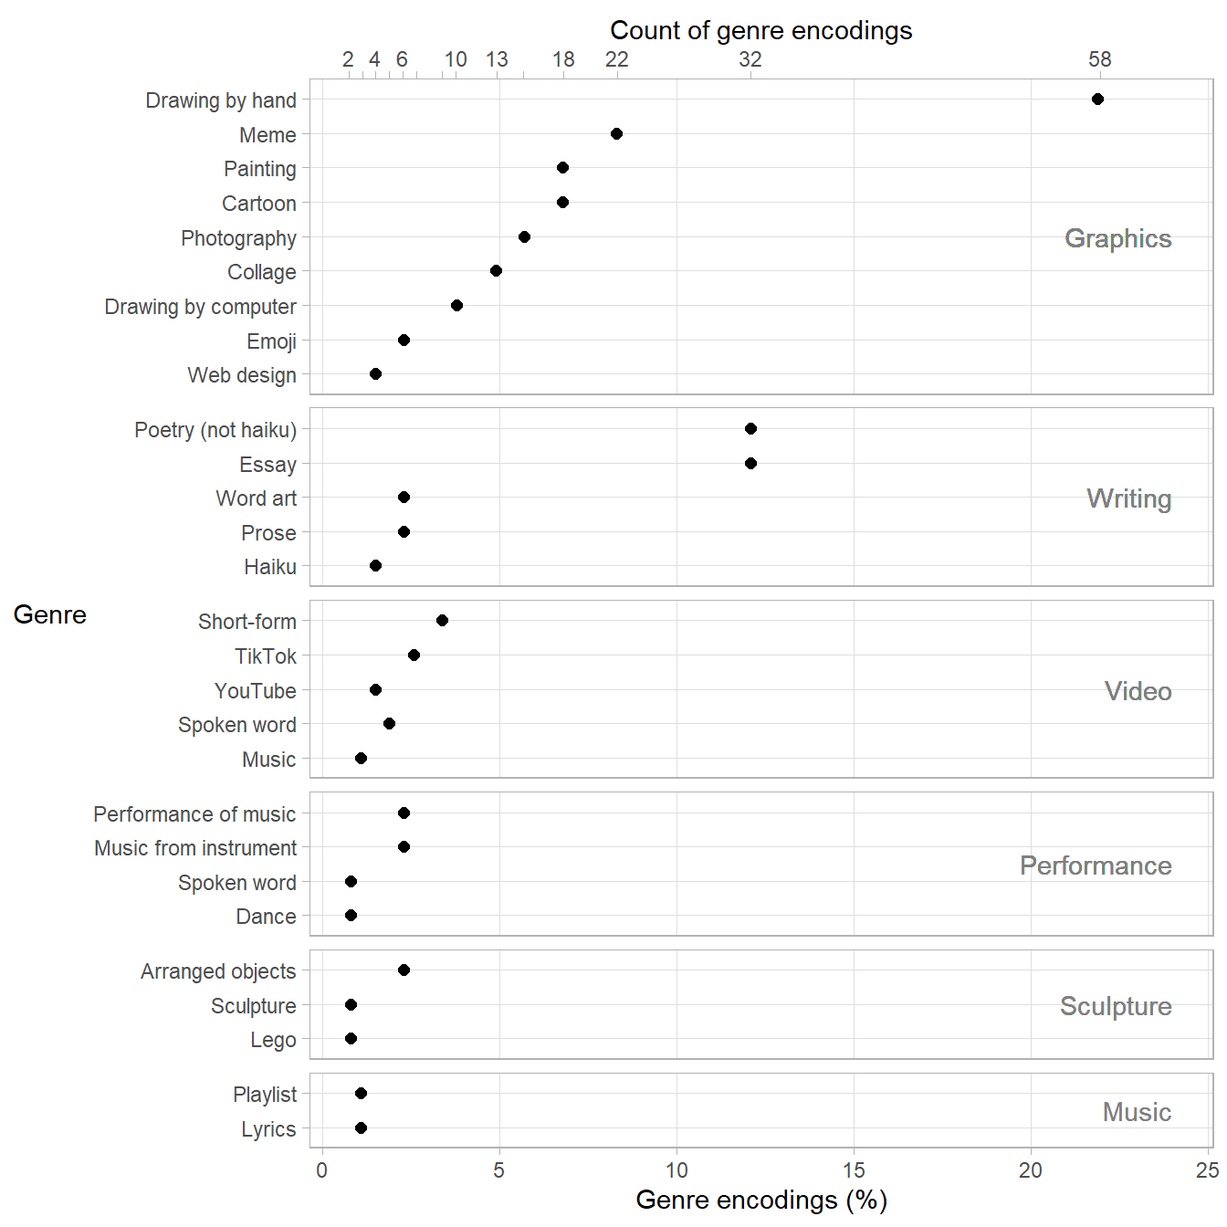
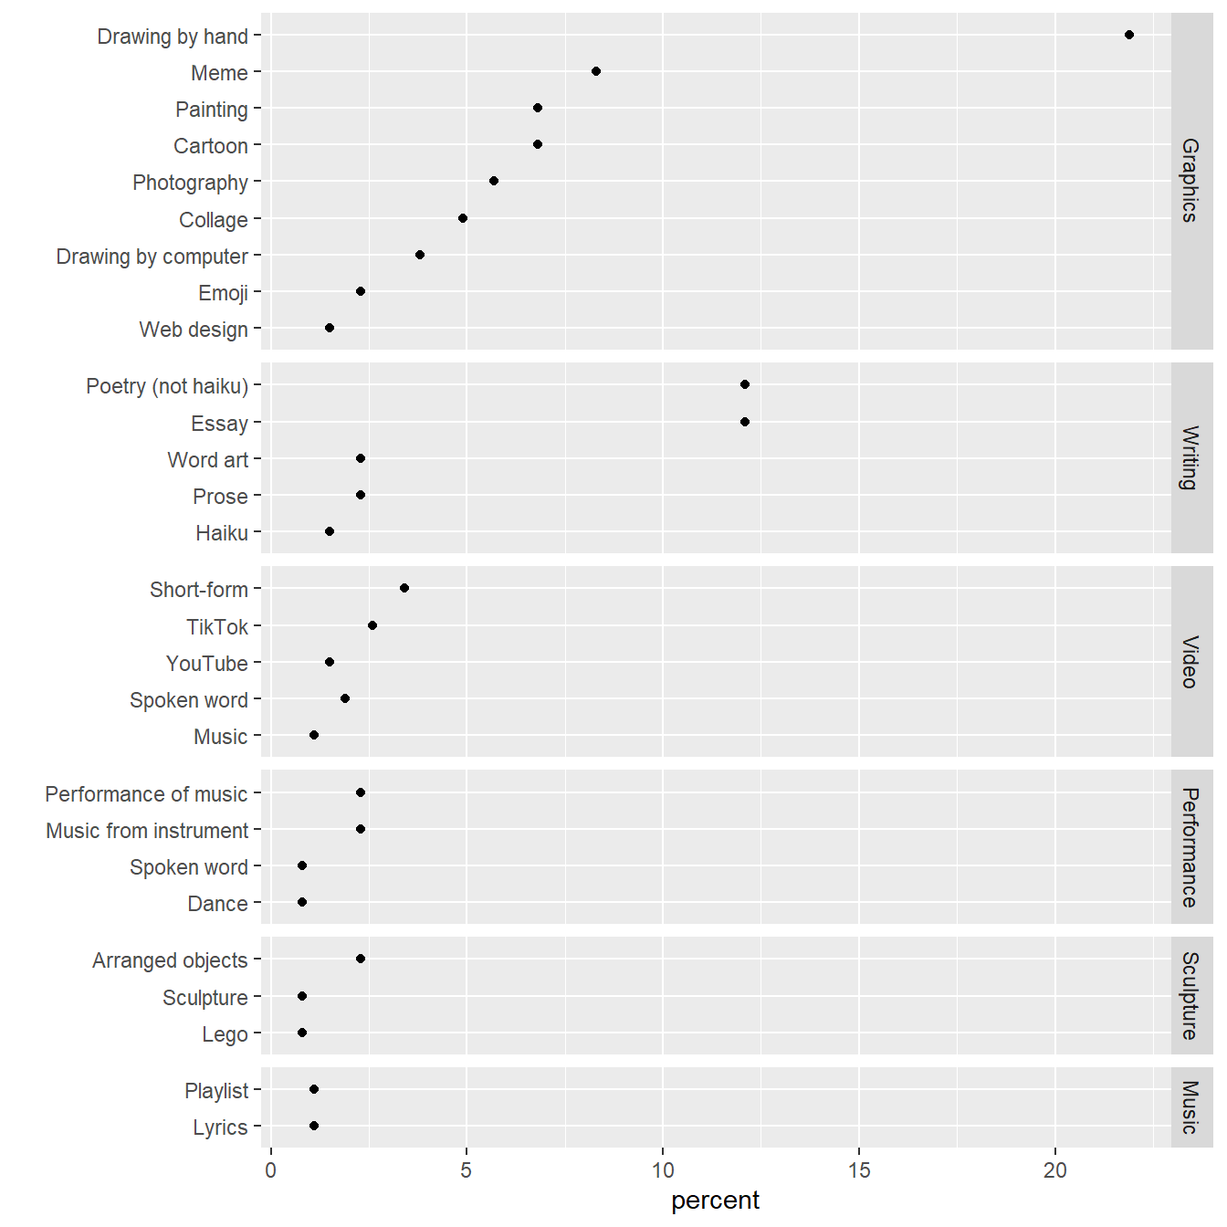
fig.asp

diff --git a/docs/posts/2022-02-19-facets-not-small-multiples/index.html b/docs/posts/2022-02-19-facets-not-small-multiples/index.html
@@ -18,6 +18,69 @@ span.underline{text-decoration: underline;}
 div.column{display: inline-block; vertical-align: top; width: 50%;}
 div.hanging-indent{margin-left: 1.5em; text-indent: -1.5em;}
 ul.task-list{list-style: none;}
+pre > code.sourceCode { white-space: pre; position: relative; }
+pre > code.sourceCode > span { display: inline-block; line-height: 1.25; }
+pre > code.sourceCode > span:empty { height: 1.2em; }
+.sourceCode { overflow: visible; }
+code.sourceCode > span { color: inherit; text-decoration: inherit; }
+div.sourceCode { margin: 1em 0; }
+pre.sourceCode { margin: 0; }
+@media screen {
+div.sourceCode { overflow: auto; }
+}
+@media print {
+pre > code.sourceCode { white-space: pre-wrap; }
+pre > code.sourceCode > span { text-indent: -5em; padding-left: 5em; }
+}
+pre.numberSource code
+  { counter-reset: source-line 0; }
+pre.numberSource code > span
+  { position: relative; left: -4em; counter-increment: source-line; }
+pre.numberSource code > span > a:first-child::before
+  { content: counter(source-line);
+    position: relative; left: -1em; text-align: right; vertical-align: baseline;
+    border: none; display: inline-block;
+    -webkit-touch-callout: none; -webkit-user-select: none;
+    -khtml-user-select: none; -moz-user-select: none;
+    -ms-user-select: none; user-select: none;
+    padding: 0 4px; width: 4em;
+    color: #aaaaaa;
+  }
+pre.numberSource { margin-left: 3em; border-left: 1px solid #aaaaaa;  padding-left: 4px; }
+div.sourceCode
+  {   }
+@media screen {
+pre > code.sourceCode > span > a:first-child::before { text-decoration: underline; }
+}
+code span.al { color: #ff0000; font-weight: bold; } /* Alert */
+code span.an { color: #60a0b0; font-weight: bold; font-style: italic; } /* Annotation */
+code span.at { color: #7d9029; } /* Attribute */
+code span.bn { color: #40a070; } /* BaseN */
+code span.bu { } /* BuiltIn */
+code span.cf { color: #007020; font-weight: bold; } /* ControlFlow */
+code span.ch { color: #4070a0; } /* Char */
+code span.cn { color: #880000; } /* Constant */
+code span.co { color: #60a0b0; font-style: italic; } /* Comment */
+code span.cv { color: #60a0b0; font-weight: bold; font-style: italic; } /* CommentVar */
+code span.do { color: #ba2121; font-style: italic; } /* Documentation */
+code span.dt { color: #902000; } /* DataType */
+code span.dv { color: #40a070; } /* DecVal */
+code span.er { color: #ff0000; font-weight: bold; } /* Error */
+code span.ex { } /* Extension */
+code span.fl { color: #40a070; } /* Float */
+code span.fu { color: #06287e; } /* Function */
+code span.im { } /* Import */
+code span.in { color: #60a0b0; font-weight: bold; font-style: italic; } /* Information */
+code span.kw { color: #007020; font-weight: bold; } /* Keyword */
+code span.op { color: #666666; } /* Operator */
+code span.ot { color: #007020; } /* Other */
+code span.pp { color: #bc7a00; } /* Preprocessor */
+code span.sc { color: #4070a0; } /* SpecialChar */
+code span.ss { color: #bb6688; } /* SpecialString */
+code span.st { color: #4070a0; } /* String */
+code span.va { color: #19177c; } /* Variable */
+code span.vs { color: #4070a0; } /* VerbatimString */
+code span.wa { color: #60a0b0; font-weight: bold; font-style: italic; } /* Warning */
 </style>
 
 <script src="../../site_libs/quarto-nav/quarto-nav.js"></script>
@@ -184,13 +247,26 @@ ul.task-list{list-style: none;}
 <p>The second example has data with dependent categories. The panels share a common, horizontal, quantitative scale but have different category scales, yielding facets that are not small multiples. I use <code>facet_grid()</code> with its <code>scales</code> and <code>space</code> arguments to treat the unequal vertical scales.</p>
 <p>The R code for the post is listed under the “R code” pointers.</p>
 <div class="cell">
-
+<details>
+<summary>R code</summary>
+<div class="sourceCode cell-code" id="cb1"><pre class="sourceCode r code-with-copy"><code class="sourceCode r"><span id="cb1-1"><a href="#cb1-1" aria-hidden="true" tabindex="-1"></a><span class="co"># packages used </span></span>
+<span id="cb1-2"><a href="#cb1-2" aria-hidden="true" tabindex="-1"></a><span class="fu">library</span>(<span class="st">"data.table"</span>)</span>
+<span id="cb1-3"><a href="#cb1-3" aria-hidden="true" tabindex="-1"></a><span class="fu">library</span>(<span class="st">"ggplot2"</span>)</span></code><button title="Copy to Clipboard" class="code-copy-button"><i class="bi"></i></button></pre></div>
+</details>
 </div>
 <section id="multiway-example" class="level2">
 <h2 class="anchored" data-anchor-id="multiway-example">Multiway example</h2>
 <p>The literal textbook example of multiway data and chart design is the livestock chart by Cleveland <span class="citation" data-cites="Cleveland:1993">[-@Cleveland:1993, 303]</span>. The data set contains counts of 5 types of farm animals in 26 countries in 1967. The independent categories are country and animal type; the quantitative variable is the count.</p>
 <p>I obtained a reproduction of the data from <span class="citation" data-cites="UCLA:2021">[@UCLA:2021]</span> and saved it as a CSV file in the blog data directory.</p>
 <div class="cell">
+<details>
+<summary>R code</summary>
+<div class="sourceCode cell-code" id="cb2"><pre class="sourceCode r code-with-copy"><code class="sourceCode r"><span id="cb2-1"><a href="#cb2-1" aria-hidden="true" tabindex="-1"></a><span class="co"># read the livestock data</span></span>
+<span id="cb2-2"><a href="#cb2-2" aria-hidden="true" tabindex="-1"></a>DT <span class="ot">&lt;-</span> <span class="fu">fread</span>(<span class="st">"livestock-1967.csv"</span>)</span>
+<span id="cb2-3"><a href="#cb2-3" aria-hidden="true" tabindex="-1"></a></span>
+<span id="cb2-4"><a href="#cb2-4" aria-hidden="true" tabindex="-1"></a><span class="co"># examine the data</span></span>
+<span id="cb2-5"><a href="#cb2-5" aria-hidden="true" tabindex="-1"></a>DT[]</span></code><button title="Copy to Clipboard" class="code-copy-button"><i class="bi"></i></button></pre></div>
+</details>
 <div class="cell-output cell-output-stdout">
 <pre><code>     livestock_type        country    count
              &lt;char&gt;         &lt;char&gt;    &lt;num&gt;
@@ -209,8 +285,15 @@ ul.task-list{list-style: none;}
 </div>
 <p>The countries are assigned to the rows such that the median count by country increases from bottom to top. The livestock are assigned to the panels such that median count by livestock type increases in <em>graphical order:</em> increasing from left to right and from bottom to top. The logarithm of counts is used for the quantitative scale counts vary by more than four powers of 10.</p>
 <div class="cell" data-fig.asp="1.2">
+<details>
+<summary>R code</summary>
+<div class="sourceCode cell-code" id="cb4"><pre class="sourceCode r code-with-copy"><code class="sourceCode r"><span id="cb4-1"><a href="#cb4-1" aria-hidden="true" tabindex="-1"></a><span class="fu">ggplot</span>(<span class="at">data =</span> DT, <span class="at">mapping =</span> <span class="fu">aes</span>(<span class="at">x =</span> <span class="fu">log10</span>(count), <span class="at">y =</span> <span class="fu">reorder</span>(country, count, median))) <span class="sc">+</span></span>
+<span id="cb4-2"><a href="#cb4-2" aria-hidden="true" tabindex="-1"></a>  <span class="fu">geom_point</span>() <span class="sc">+</span> </span>
+<span id="cb4-3"><a href="#cb4-3" aria-hidden="true" tabindex="-1"></a>  <span class="fu">facet_wrap</span>(<span class="fu">vars</span>(<span class="fu">reorder</span>(livestock_type, count, median)), <span class="at">as.table =</span> <span class="cn">FALSE</span>) <span class="sc">+</span></span>
+<span id="cb4-4"><a href="#cb4-4" aria-hidden="true" tabindex="-1"></a>  <span class="fu">labs</span>(<span class="at">x =</span> <span class="fu">expression</span>(<span class="st">'Log'</span>[<span class="dv">10</span>]<span class="sc">~</span><span class="st">'number of livestock'</span>), <span class="at">y =</span> <span class="st">""</span>)</span></code><button title="Copy to Clipboard" class="code-copy-button"><i class="bi"></i></button></pre></div>
+</details>
 <div class="cell-output-display">
-<p><img src="index_files/figure-html/unnamed-chunk-3-1.png" class="img-fluid" width="672"></p>
+<p><img src="index_files/figure-html/unnamed-chunk-4-1.png" class="img-fluid" width="672"></p>
 </div>
 </div>
 <p>Typical of small multiple charts in general, all five panels have identical horizontal scales (the count) and identical vertical axes (countries). It follows that the size and aspect ratio of each panel are also identical.</p>
@@ -225,6 +308,14 @@ ul.task-list{list-style: none;}
 <p>Some submissions covered multiple media and genres, for example, an original song in a video would be coded as both. Thus the total of the <code>count</code> column (304 encodings) exceeds the number of submissions (N = 265). The <code>percent</code> column is a derived variable that reports the count as a percentage of N. The sum of the <code>percent</code> column is therefore greater than 100%.</p>
 <p>The data are available in the blog data directory.</p>
 <div class="cell">
+<details>
+<summary>R code</summary>
+<div class="sourceCode cell-code" id="cb5"><pre class="sourceCode r code-with-copy"><code class="sourceCode r"><span id="cb5-1"><a href="#cb5-1" aria-hidden="true" tabindex="-1"></a><span class="co"># import the data</span></span>
+<span id="cb5-2"><a href="#cb5-2" aria-hidden="true" tabindex="-1"></a>DT <span class="ot">&lt;-</span> <span class="fu">fread</span>(<span class="st">"creative-assignment-2021.csv"</span>)</span>
+<span id="cb5-3"><a href="#cb5-3" aria-hidden="true" tabindex="-1"></a></span>
+<span id="cb5-4"><a href="#cb5-4" aria-hidden="true" tabindex="-1"></a><span class="co"># print the data table</span></span>
+<span id="cb5-5"><a href="#cb5-5" aria-hidden="true" tabindex="-1"></a>DT[]</span></code><button title="Copy to Clipboard" class="code-copy-button"><i class="bi"></i></button></pre></div>
+</details>
 <div class="cell-output cell-output-stdout">
 <pre><code>         medium                 genre count percent
          &lt;char&gt;                &lt;char&gt; &lt;int&gt;   &lt;num&gt;
@@ -262,21 +353,53 @@ ul.task-list{list-style: none;}
 <p>The graph I have in mind would have media type assigned to rows and media category assigned to panels. Unlike the livestock example, however, the categorical variables in these data are not independent. For example, web design is associated only with graphics, essay is associated only with writing, etc.</p>
 <p>In my first attempt, I use <code>facet_wrap()</code> like I did with the livestock data. The visual problem is obvious…every row has a data marker in one panel only. Because the categories are not independent, the small-multiple design fails.</p>
 <div class="cell" data-fig.asp="1.6">
+<details>
+<summary>R code</summary>
+<div class="sourceCode cell-code" id="cb7"><pre class="sourceCode r code-with-copy"><code class="sourceCode r"><span id="cb7-1"><a href="#cb7-1" aria-hidden="true" tabindex="-1"></a><span class="co"># create the first chart </span></span>
+<span id="cb7-2"><a href="#cb7-2" aria-hidden="true" tabindex="-1"></a>p <span class="ot">&lt;-</span> <span class="fu">ggplot</span>(<span class="at">data =</span> DT, <span class="at">mapping =</span> <span class="fu">aes</span>(<span class="at">x =</span> percent, <span class="at">y =</span> <span class="fu">reorder</span>(genre, count))) <span class="sc">+</span></span>
+<span id="cb7-3"><a href="#cb7-3" aria-hidden="true" tabindex="-1"></a>  <span class="fu">geom_point</span>() <span class="sc">+</span> </span>
+<span id="cb7-4"><a href="#cb7-4" aria-hidden="true" tabindex="-1"></a>  <span class="fu">facet_wrap</span>(<span class="fu">vars</span>(<span class="fu">reorder</span>(medium, count)) , <span class="at">as.table =</span> <span class="cn">FALSE</span>) <span class="sc">+</span></span>
+<span id="cb7-5"><a href="#cb7-5" aria-hidden="true" tabindex="-1"></a>  <span class="fu">labs</span>(<span class="at">y =</span> <span class="st">""</span>)</span>
+<span id="cb7-6"><a href="#cb7-6" aria-hidden="true" tabindex="-1"></a></span>
+<span id="cb7-7"><a href="#cb7-7" aria-hidden="true" tabindex="-1"></a><span class="co"># display the result</span></span>
+<span id="cb7-8"><a href="#cb7-8" aria-hidden="true" tabindex="-1"></a>p</span></code><button title="Copy to Clipboard" class="code-copy-button"><i class="bi"></i></button></pre></div>
+</details>
 <div class="cell-output-display">
-<p><img src="index_files/figure-html/unnamed-chunk-5-1.png" class="img-fluid" width="672"></p>
+<p><img src="index_files/figure-html/unnamed-chunk-6-1.png" class="img-fluid" width="672"></p>
 </div>
 </div>
 <p>The <code>scales = "free_y"</code> argument of <code>facet_wrap()</code> replaces the common y-scale with only those row labels associated with a panel. I also use the <code>ncol</code> argument to stack the panels in one column with all rows labels aligned on the left. This graph has the essential layout I had in mind—a common quantitative scale but different vertical scales, yielding facets that are not small multiples.</p>
 <div class="cell" data-fig.asp="1.5">
+<details>
+<summary>R code</summary>
+<div class="sourceCode cell-code" id="cb8"><pre class="sourceCode r code-with-copy"><code class="sourceCode r"><span id="cb8-1"><a href="#cb8-1" aria-hidden="true" tabindex="-1"></a><span class="co"># edit the previous chart </span></span>
+<span id="cb8-2"><a href="#cb8-2" aria-hidden="true" tabindex="-1"></a>p <span class="ot">&lt;-</span> p <span class="sc">+</span></span>
+<span id="cb8-3"><a href="#cb8-3" aria-hidden="true" tabindex="-1"></a>   <span class="fu">facet_wrap</span>(<span class="fu">vars</span>(<span class="fu">reorder</span>(medium, count)) , <span class="at">as.table =</span> <span class="cn">FALSE</span>, <span class="at">scales =</span> <span class="st">"free_y"</span>, <span class="at">ncol =</span> <span class="dv">1</span>)</span>
+<span id="cb8-4"><a href="#cb8-4" aria-hidden="true" tabindex="-1"></a></span>
+<span id="cb8-5"><a href="#cb8-5" aria-hidden="true" tabindex="-1"></a><span class="co"># display the result</span></span>
+<span id="cb8-6"><a href="#cb8-6" aria-hidden="true" tabindex="-1"></a>p</span></code><button title="Copy to Clipboard" class="code-copy-button"><i class="bi"></i></button></pre></div>
+</details>
 <div class="cell-output-display">
-<p><img src="index_files/figure-html/unnamed-chunk-6-1.png" class="img-fluid" width="672"></p>
+<p><img src="index_files/figure-html/unnamed-chunk-7-1.png" class="img-fluid" width="672"></p>
 </div>
 </div>
 <p>Because <code>facet_wrap()</code> creates panels of equal height, the rows in this case are unequally spaced.</p>
 <p>I switch to <code>facet_grid()</code> to space the rows equally in panels of unequal height. The <code>space = "free_y"</code> argument is added to make the panel height proportional to the length of the y scale.</p>
 <div class="cell" data-fig.asp="1">
+<details>
+<summary>R code</summary>
+<div class="sourceCode cell-code" id="cb9"><pre class="sourceCode r code-with-copy"><code class="sourceCode r"><span id="cb9-1"><a href="#cb9-1" aria-hidden="true" tabindex="-1"></a><span class="co"># edit the previous chart </span></span>
+<span id="cb9-2"><a href="#cb9-2" aria-hidden="true" tabindex="-1"></a>p <span class="ot">&lt;-</span> p  <span class="sc">+</span></span>
+<span id="cb9-3"><a href="#cb9-3" aria-hidden="true" tabindex="-1"></a>  <span class="fu">facet_grid</span>(<span class="at">rows =</span> <span class="fu">vars</span>(<span class="fu">reorder</span>(medium, count)), </span>
+<span id="cb9-4"><a href="#cb9-4" aria-hidden="true" tabindex="-1"></a>             <span class="at">as.table =</span> <span class="cn">FALSE</span>, </span>
+<span id="cb9-5"><a href="#cb9-5" aria-hidden="true" tabindex="-1"></a>             <span class="at">scales =</span> <span class="st">"free_y"</span>,</span>
+<span id="cb9-6"><a href="#cb9-6" aria-hidden="true" tabindex="-1"></a>             <span class="at">space =</span> <span class="st">"free_y"</span>)</span>
+<span id="cb9-7"><a href="#cb9-7" aria-hidden="true" tabindex="-1"></a></span>
+<span id="cb9-8"><a href="#cb9-8" aria-hidden="true" tabindex="-1"></a><span class="co"># display the result</span></span>
+<span id="cb9-9"><a href="#cb9-9" aria-hidden="true" tabindex="-1"></a>p</span></code><button title="Copy to Clipboard" class="code-copy-button"><i class="bi"></i></button></pre></div>
+</details>
 <div class="cell-output-display">
-<p><img src="index_files/figure-html/unnamed-chunk-7-1.png" class="img-fluid" width="672"></p>
+<p><img src="index_files/figure-html/unnamed-chunk-8-1.png" class="img-fluid" width="672"></p>
 </div>
 </div>
 </section>
@@ -284,8 +407,41 @@ ul.task-list{list-style: none;}
 <h2 class="anchored" data-anchor-id="editing-the-chart">Editing the chart</h2>
 <p>While the overall layout above is what I want, I would prefer to move the panel labels from the right-hand side to the top of each panel. I could not find a way to do that, so I removed the right-hand label and wrote the media label inside the panel. I edited some other aesthetics as well.</p>
 <div class="cell" data-fig.asp="1">
+<details>
+<summary>R code</summary>
+<div class="sourceCode cell-code" id="cb10"><pre class="sourceCode r code-with-copy"><code class="sourceCode r"><span id="cb10-1"><a href="#cb10-1" aria-hidden="true" tabindex="-1"></a><span class="co"># create a y-coordinate for a text geom</span></span>
+<span id="cb10-2"><a href="#cb10-2" aria-hidden="true" tabindex="-1"></a>DT <span class="ot">&lt;-</span> DT[, y_coord_media <span class="sc">:</span><span class="er">=</span> .N<span class="sc">/</span><span class="dv">2</span> <span class="sc">+</span> <span class="fl">0.5</span>, by <span class="ot">=</span> medium]</span>
+<span id="cb10-3"><a href="#cb10-3" aria-hidden="true" tabindex="-1"></a></span>
+<span id="cb10-4"><a href="#cb10-4" aria-hidden="true" tabindex="-1"></a><span class="co"># create secondary axis data, omit some labels to avoid overprinting</span></span>
+<span id="cb10-5"><a href="#cb10-5" aria-hidden="true" tabindex="-1"></a>count_scale <span class="ot">&lt;-</span> <span class="fu">sort</span>(<span class="fu">unique</span>(DT<span class="sc">$</span>count))</span>
+<span id="cb10-6"><a href="#cb10-6" aria-hidden="true" tabindex="-1"></a>top_axis <span class="ot">&lt;-</span> <span class="fu">data.table</span>(count_scale)</span>
+<span id="cb10-7"><a href="#cb10-7" aria-hidden="true" tabindex="-1"></a>top_axis[, count_label <span class="sc">:</span><span class="er">=</span> <span class="fu">as.character</span>(count_scale)]</span>
+<span id="cb10-8"><a href="#cb10-8" aria-hidden="true" tabindex="-1"></a>omit_labels <span class="ot">&lt;-</span> <span class="fu">c</span>(<span class="st">"3"</span>, <span class="st">"5"</span>, <span class="st">"7"</span>, <span class="st">"9"</span>, <span class="st">"15"</span>)</span>
+<span id="cb10-9"><a href="#cb10-9" aria-hidden="true" tabindex="-1"></a>top_axis[count_label <span class="sc">%chin%</span> omit_labels, count_label <span class="sc">:</span><span class="er">=</span> <span class="st">""</span>]</span>
+<span id="cb10-10"><a href="#cb10-10" aria-hidden="true" tabindex="-1"></a></span>
+<span id="cb10-11"><a href="#cb10-11" aria-hidden="true" tabindex="-1"></a><span class="co"># ratio for secondary axis transformation</span></span>
+<span id="cb10-12"><a href="#cb10-12" aria-hidden="true" tabindex="-1"></a>scale_trans <span class="ot">&lt;-</span> <span class="fu">sum</span>(DT<span class="sc">$</span>count) <span class="sc">/</span> <span class="fu">sum</span>(DT<span class="sc">$</span>percent)</span>
+<span id="cb10-13"><a href="#cb10-13" aria-hidden="true" tabindex="-1"></a></span>
+<span id="cb10-14"><a href="#cb10-14" aria-hidden="true" tabindex="-1"></a><span class="co"># graph</span></span>
+<span id="cb10-15"><a href="#cb10-15" aria-hidden="true" tabindex="-1"></a><span class="fu">ggplot</span>(<span class="at">data =</span> DT, <span class="at">mapping =</span> <span class="fu">aes</span>(<span class="at">x =</span> percent, <span class="at">y =</span> <span class="fu">reorder</span>(genre, count))) <span class="sc">+</span></span>
+<span id="cb10-16"><a href="#cb10-16" aria-hidden="true" tabindex="-1"></a>  <span class="fu">geom_point</span>(<span class="at">size =</span> <span class="dv">2</span>) <span class="sc">+</span></span>
+<span id="cb10-17"><a href="#cb10-17" aria-hidden="true" tabindex="-1"></a>  <span class="fu">facet_grid</span>(<span class="at">rows =</span> <span class="fu">vars</span>(<span class="fu">reorder</span>(medium, count)), </span>
+<span id="cb10-18"><a href="#cb10-18" aria-hidden="true" tabindex="-1"></a>             <span class="at">as.table =</span> <span class="cn">FALSE</span>, </span>
+<span id="cb10-19"><a href="#cb10-19" aria-hidden="true" tabindex="-1"></a>             <span class="at">scales =</span> <span class="st">"free_y"</span>,</span>
+<span id="cb10-20"><a href="#cb10-20" aria-hidden="true" tabindex="-1"></a>             <span class="at">space =</span> <span class="st">"free_y"</span>) <span class="sc">+</span></span>
+<span id="cb10-21"><a href="#cb10-21" aria-hidden="true" tabindex="-1"></a>  <span class="fu">labs</span>(<span class="at">x =</span> <span class="st">"Genre encodings (%)"</span>, <span class="at">y =</span> <span class="st">"Genre"</span>) <span class="sc">+</span></span>
+<span id="cb10-22"><a href="#cb10-22" aria-hidden="true" tabindex="-1"></a>  <span class="fu">theme_light</span>() <span class="sc">+</span></span>
+<span id="cb10-23"><a href="#cb10-23" aria-hidden="true" tabindex="-1"></a>  <span class="fu">theme</span>(<span class="at">strip.text.y =</span> <span class="fu">element_blank</span>(), </span>
+<span id="cb10-24"><a href="#cb10-24" aria-hidden="true" tabindex="-1"></a>        <span class="at">panel.grid.minor =</span> <span class="fu">element_blank</span>(),</span>
+<span id="cb10-25"><a href="#cb10-25" aria-hidden="true" tabindex="-1"></a>        <span class="at">axis.title.y =</span> <span class="fu">element_text</span>(<span class="at">angle =</span> <span class="dv">0</span>, <span class="at">hjust =</span> <span class="dv">1</span>, <span class="at">vjust =</span> <span class="fl">0.5</span>)) <span class="sc">+</span></span>
+<span id="cb10-26"><a href="#cb10-26" aria-hidden="true" tabindex="-1"></a>  <span class="fu">geom_text</span>(<span class="fu">aes</span>(<span class="at">x =</span> <span class="dv">24</span>, <span class="at">y =</span> y_coord_media, <span class="at">label =</span> medium, <span class="at">hjust =</span> <span class="dv">1</span>), <span class="at">color =</span> <span class="st">"gray50"</span>) <span class="sc">+</span></span>
+<span id="cb10-27"><a href="#cb10-27" aria-hidden="true" tabindex="-1"></a>  <span class="fu">scale_x_continuous</span>(<span class="at">sec.axis =</span> <span class="fu">sec_axis</span>(<span class="at">trans =</span> <span class="cf">function</span>(z) (z <span class="sc">*</span> scale_trans), </span>
+<span id="cb10-28"><a href="#cb10-28" aria-hidden="true" tabindex="-1"></a>                                         <span class="at">name =</span> <span class="st">"Count of genre encodings"</span>, </span>
+<span id="cb10-29"><a href="#cb10-29" aria-hidden="true" tabindex="-1"></a>                                         <span class="at">breaks =</span> top_axis<span class="sc">$</span>count_scale, </span>
+<span id="cb10-30"><a href="#cb10-30" aria-hidden="true" tabindex="-1"></a>                                         <span class="at">labels =</span> top_axis<span class="sc">$</span>count_label))</span></code><button title="Copy to Clipboard" class="code-copy-button"><i class="bi"></i></button></pre></div>
+</details>
 <div class="cell-output-display">
-<p><img src="index_files/figure-html/unnamed-chunk-8-1.png" class="img-fluid" width="672"></p>
+<p><img src="index_files/figure-html/unnamed-chunk-9-1.png" class="img-fluid" width="672"></p>
 </div>
 </div>
 <p>Features of the graph</p>

diff --git a/docs/index.html b/docs/index.html
@@ -166,7 +166,7 @@ ul.task-list{list-style: none;}
 
 <div class="quarto-listing quarto-listing-container-default" id="listing-listing">
 <div class="list quarto-listing-default">
-<div class="quarto-post image-right" data-index="0" data-categories="ggplot2,R" data-listing-date-sort="1646802000000" data-listing-file-modified-sort="1652982749625" data-listing-reading-time-sort="8.6">
+<div class="quarto-post image-right" data-index="0" data-categories="ggplot2,R" data-listing-date-sort="1646802000000" data-listing-file-modified-sort="1652983890603" data-listing-reading-time-sort="8.57">
 <div class="thumbnail">
 <p><a href="./posts/2022-02-19-facets-not-small-multiples/index.html"> <img src="./posts/2022-02-19-facets-not-small-multiples/thumbnail.png" class="thumnail-image"> </a></p>
 </div>
